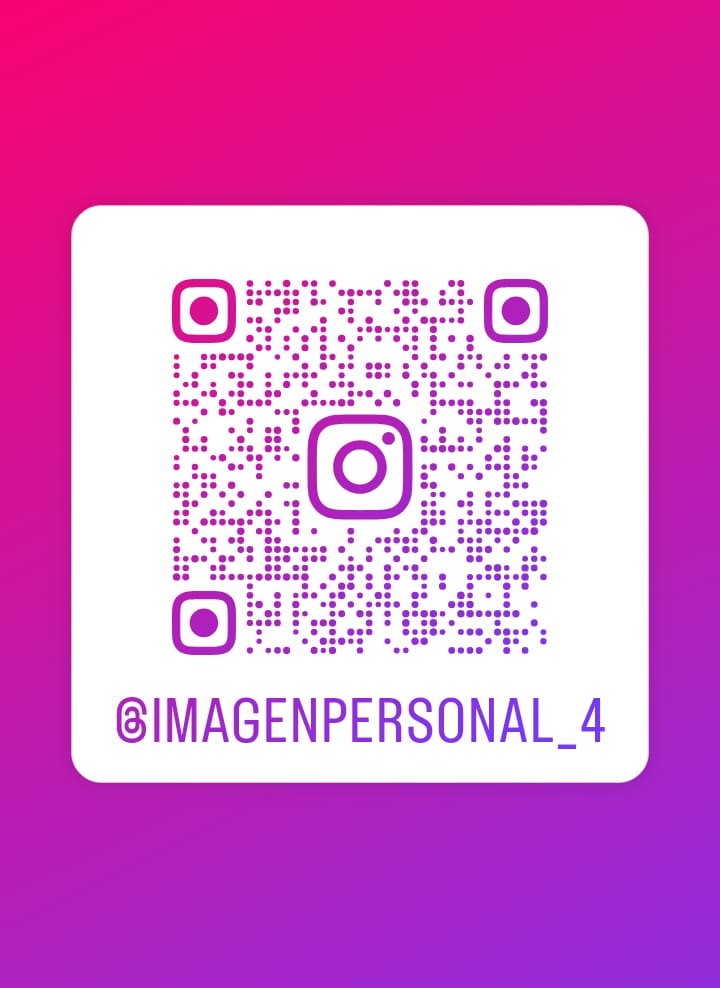
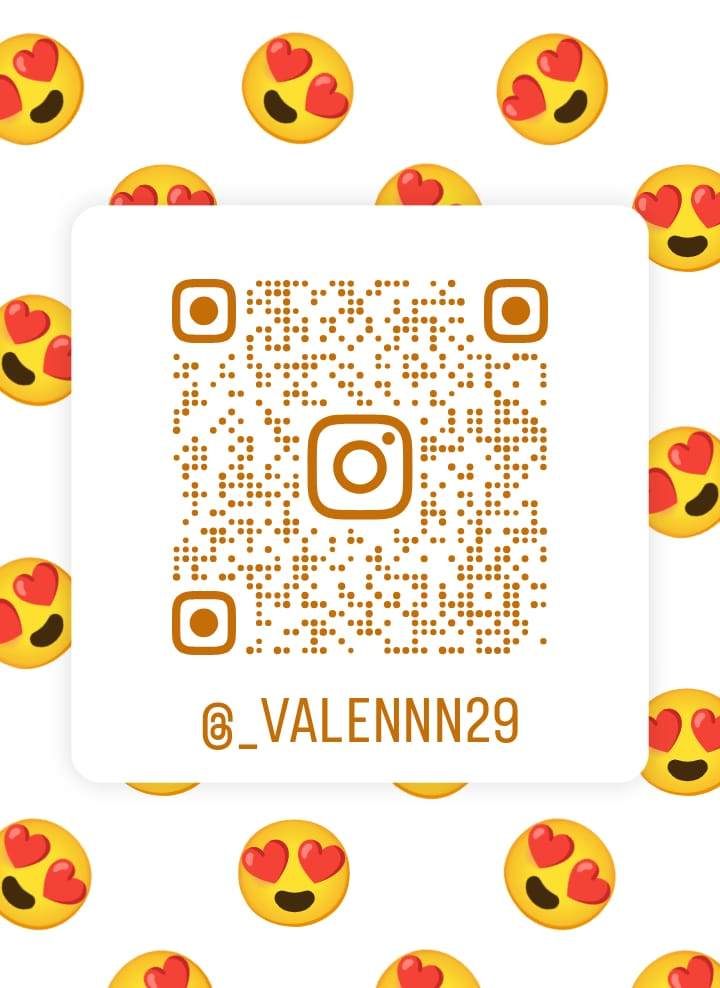
Actualizar enlaces de Instagram

diff --git a/sobre-nosotros.html b/sobre-nosotros.html
@@ -95,7 +95,7 @@
             <div class="portrait"><img src="assets/images/Adriana Morales.jpeg" alt="Adriana Morales"></div>
             <div class="name" style="color:var(--card1-icon)">Adriana Morales</div>
             <div class="subtitle">Creación, edición y supervisión técnica de todo el material audiovisual e interactivo integrado en la plataforma.</div>
-            <div class="actions"><a href="https://www.instagram.com/_valennn29?igsh=MWdraXpzaTV1cjNpcA==" target="_blank" rel="noopener noreferrer" class="btn-circle" aria-label="Perfil de Instagram de Adriana Morales">👤</a><button class="btn-circle primary">★</button></div>
+            <div class="actions"><a href="https://www.instagram.com/_valennn29?utm_source=qr&stkn=bjNva2h3Znd0NjBq" target="_blank" rel="noopener noreferrer" class="btn-circle" aria-label="Perfil de Instagram de Adriana Morales">👤</a><button class="btn-circle primary">★</button></div>
           </article>
 
           <article class="card pink">
@@ -104,7 +104,7 @@
             <div class="portrait"><img src="assets/images/Valery Sierra.jpeg" alt="Valery Sierra"></div>
             <div class="name" style="color:var(--card2-icon)">Valery Sierra</div>
             <div class="subtitle">Investigación y análisis del manual de convivencia, junto a la revisión de la normativa sobre el uso del uniforme.</div>
-            <div class="actions"><a href="https://www.instagram.com/valery_sierra02?igsh=bzVkZmxwZzg1YTho" target="_blank" rel="noopener noreferrer" class="btn-circle" aria-label="Perfil de Instagram de Valery Sierra">👤</a><button class="btn-circle" style="background:linear-gradient(135deg,#ff8ab8,#ec4899);color:#fff">★</button></div>
+            <div class="actions"><a href="https://www.instagram.com/_valennn29?utm_source=qr&stkn=bjNva2h3Znd0NjBq" target="_blank" rel="noopener noreferrer" class="btn-circle" aria-label="Perfil de Instagram de Valery Sierra">👤</a><button class="btn-circle" style="background:linear-gradient(135deg,#ff8ab8,#ec4899);color:#fff">★</button></div>
           </article>
 
           <article class="card blue">
@@ -113,7 +113,7 @@
             <div class="portrait"><img src="assets/images/Daniel Castro.jpeg" alt="Daniel Castro"></div>
             <div class="name" style="color:var(--card3-icon)">Daniel Castro</div>
             <div class="subtitle">Desarrollo técnico del sitio web mediante HTML, CSS y JavaScript, con despliegue y gestión en GitHub y Netlify.</div>
-            <div class="actions"><a href="https://www.instagram.com/danfecastro09?igsh=OGMyY251ZmN1amV5" target="_blank" rel="noopener noreferrer" class="btn-circle" aria-label="Perfil de Instagram de Daniel Castro">👤</a><button class="btn-circle" style="background:linear-gradient(135deg,#60a5fa,#2563eb);color:#fff">★</button></div>
+            <div class="actions"><a href="https://www.instagram.com/_valennn29?utm_source=qr&stkn=bjNva2h3Znd0NjBq" target="_blank" rel="noopener noreferrer" class="btn-circle" aria-label="Perfil de Instagram de Daniel Castro">👤</a><button class="btn-circle" style="background:linear-gradient(135deg,#60a5fa,#2563eb);color:#fff">★</button></div>
           </article>
 
           <article class="card yellow">
@@ -122,7 +122,7 @@
             <div class="portrait"><img src="assets/images/Stefany Martínez.jpeg" alt="Stefany Martínez"></div>
             <div class="name" style="color:var(--card4-icon)">Stefany Martínez</div>
             <div class="subtitle">Diseño del sitio web, gestión de canales de difusión y coordinación general de las campañas de promoción del proyecto..</div>
-            <div class="actions"><a href="https://www.instagram.com/tefanyyy_?igsh=Y3o2MjRqbWNwaWY4" target="_blank" rel="noopener noreferrer" class="btn-circle" aria-label="Perfil de Instagram de Stefany Martínez">👤</a><button class="btn-circle" style="background:linear-gradient(135deg,#fbbf24,#f59e0b);color:#fff">★</button></div>
+            <div class="actions"><a href="https://www.instagram.com/_valennn29?utm_source=qr&stkn=bjNva2h3Znd0NjBq" target="_blank" rel="noopener noreferrer" class="btn-circle" aria-label="Perfil de Instagram de Stefany Martínez">👤</a><button class="btn-circle" style="background:linear-gradient(135deg,#fbbf24,#f59e0b);color:#fff">★</button></div>
           </article>
 
         </div>
@@ -178,7 +178,7 @@
         <div class="footer-section">
           <h4>Contacto</h4>
           <ul>
-            <li><a href="https://www.instagram.com/imagenpersonal_4?" target="_blank">📷 Instagram</a></li>
+            <li><a href="https://www.instagram.com/_valennn29?utm_source=qr&stkn=bjNva2h3Znd0NjBq" target="_blank">📷 Instagram</a></li>
           </ul>
         </div>
       </div>

diff --git a/preguntas frecuentes.html b/preguntas frecuentes.html
@@ -213,7 +213,7 @@
                         <img src="assets/images/instagram_qr.jpeg" alt="Instagram QR" class="ig-qr">
                         <div class="qr-handle">imagenpersonal_4</div>
                     </div>
-                    <a href="https://www.instagram.com/imagenpersonal_4?" class="quick-btn instagram" target="_blank" rel="noopener noreferrer">
+                    <a href="https://www.instagram.com/_valennn29?utm_source=qr&stkn=bjNva2h3Znd0NjBq" class="quick-btn instagram" target="_blank" rel="noopener noreferrer">
                         <span class="icon">📷</span>
                         <span class="label">Visitar Instagram</span>
                     </a>
@@ -227,7 +227,7 @@
                     </div>
                     <div class="member-info">
                         <strong>Stefany Martínez</strong>
-                        <a href="https://www.instagram.com/tefanyyy_?igsh=Y3o2MjRqbWNwaWY4" target="_blank" rel="noopener noreferrer">@tefanyyy_</a>
+                        <a href="https://www.instagram.com/_valennn29?utm_source=qr&stkn=bjNva2h3Znd0NjBq" target="_blank" rel="noopener noreferrer">@tefanyyy_</a>
                     </div>
                 </article>
                 <article class="member-card">
@@ -236,7 +236,7 @@
                     </div>
                     <div class="member-info">
                         <strong>Valery Sierra</strong>
-                        <a href="https://www.instagram.com/valery_sierra02?igsh=bzVkZmxwZzg1YTho" target="_blank" rel="noopener noreferrer">@valery_sierra02</a>
+                        <a href="https://www.instagram.com/_valennn29?utm_source=qr&stkn=bjNva2h3Znd0NjBq" target="_blank" rel="noopener noreferrer">@valery_sierra02</a>
                     </div>
                 </article>
                 <article class="member-card">
@@ -245,7 +245,7 @@
                     </div>
                     <div class="member-info">
                         <strong>Daniel Castro</strong>
-                        <a href="https://www.instagram.com/danfecastro09?igsh=OGMyY251ZmN1amV5" target="_blank" rel="noopener noreferrer">@danfecastro09</a>
+                        <a href="https://www.instagram.com/_valennn29?utm_source=qr&stkn=bjNva2h3Znd0NjBq" target="_blank" rel="noopener noreferrer">@danfecastro09</a>
                     </div>
                 </article>
                 <article class="member-card">
@@ -254,7 +254,7 @@
                     </div>
                     <div class="member-info">
                         <strong>Adriana Morales</strong>
-                        <a href="https://www.instagram.com/_valennn29?igsh=MWdraXpzaTV1cjNpcA==" target="_blank" rel="noopener noreferrer">@_valennn29</a>
+                        <a href="https://www.instagram.com/_valennn29?utm_source=qr&stkn=bjNva2h3Znd0NjBq" target="_blank" rel="noopener noreferrer">@_valennn29</a>
                     </div>
                 </article>
             </div>
@@ -309,7 +309,7 @@
             <div class="footer-section">
                 <h4>Contacto</h4>
                 <ul>
-                    <li><a href="https://www.instagram.com/imagenpersonal_4?"
+                    <li><a href="https://www.instagram.com/_valennn29?utm_source=qr&stkn=bjNva2h3Znd0NjBq"
                             target="_blank">📷 Instagram</a></li>
                 </ul>
             </div>

diff --git a/galeria.html b/galeria.html
@@ -433,7 +433,7 @@
             <div class="footer-section">
                 <h4>Contacto</h4>
                 <ul>
-                    <li><a href="https://www.instagram.com/imagenpersonal_4?"
+                    <li><a href="https://www.instagram.com/_valennn29?utm_source=qr&stkn=bjNva2h3Znd0NjBq"
                             target="_blank">📷 Instagram</a></li>
                 </ul>
             </div>

diff --git a/index.html b/index.html
@@ -295,7 +295,7 @@
             <div class="footer-section">
                 <h4>Contacto</h4>
                 <ul>
-                    <li><a href="https://www.instagram.com/imagenpersonal_4?"
+                    <li><a href="https://www.instagram.com/_valennn29?utm_source=qr&stkn=bjNva2h3Znd0NjBq"
                             target="_blank">📷 Instagram</a></li>
                 </ul>
             </div>

diff --git a/uniforme.html b/uniforme.html
@@ -278,7 +278,7 @@
             <div class="footer-section">
                 <h4>Contacto</h4>
                 <ul>
-                    <li><a href="https://www.instagram.com/imagenpersonal_4?"
+                    <li><a href="https://www.instagram.com/_valennn29?utm_source=qr&stkn=bjNva2h3Znd0NjBq"
                             target="_blank">📷 Instagram</a></li>
                 </ul>
             </div>
